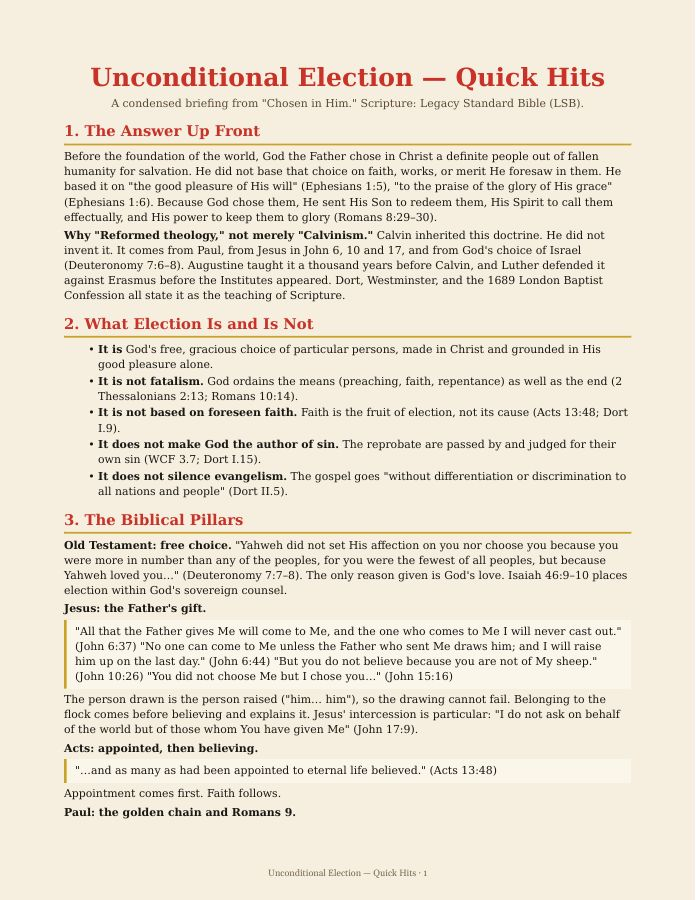
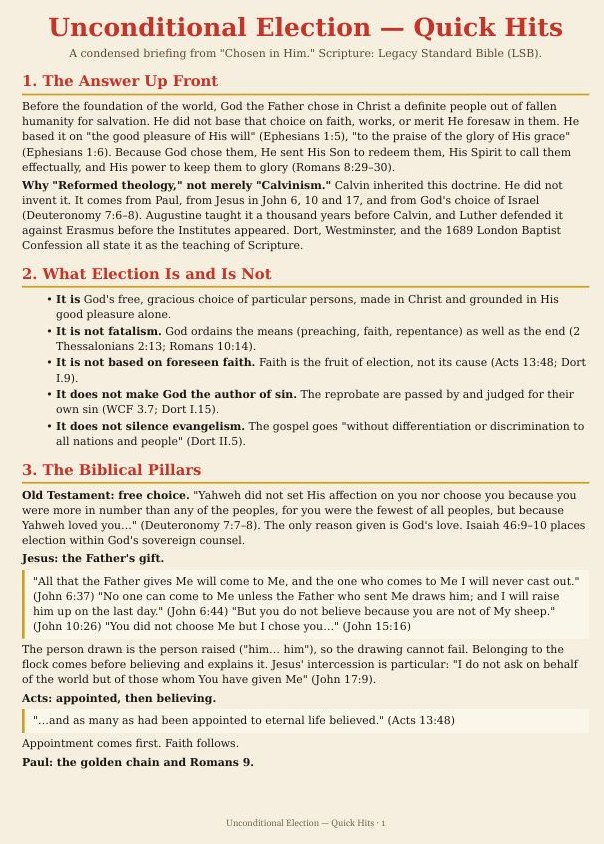
Expand five solas with KJV supporting verses and Reformer/Puritan quotes; crop Election PDF thumbnails and stop thumb stretching (no white bars)

Changed region(s): [[0.0298, 0.0, 0.9536, 0.9242], [0.3874, 0.955, 0.6258, 0.9858]]

diff --git a/data.js b/data.js
@@ -5,26 +5,36 @@ window.SOLA = {
       intro:"The Bible is the only infallible rule for what Christians believe and how they live.",
       study:"The Reformers did not reject church tradition outright; they held that Scripture alone has final authority over councils, popes and creeds, which stand under it.",
       text:"2 Timothy 3:16–17", conf:"Westminster Confession, ch. 1; Belgic Confession, arts. 2–7",
+      verses:[{"ref": "2 Timothy 3:16", "t": "All scripture is given by inspiration of God, and is profitable for doctrine, for reproof, for correction, for instruction in righteousness", "u": "https://www.biblegateway.com/passage/?search=2+Timothy+3%3A16&version=KJV"}, {"ref": "Psalm 119:105", "t": "Thy word is a lamp unto my feet, and a light unto my path.", "u": "https://www.biblegateway.com/passage/?search=Psalm+119%3A105&version=KJV"}, {"ref": "Isaiah 40:8", "t": "The grass withereth, the flower fadeth: but the word of our God shall stand for ever.", "u": "https://www.biblegateway.com/passage/?search=Isaiah+40%3A8&version=KJV"}, {"ref": "2 Peter 1:21", "t": "holy men of God spake as they were moved by the Holy Ghost.", "u": "https://www.biblegateway.com/passage/?search=2+Peter+1%3A21&version=KJV"}],
+      quote:{"by": "Martin Luther, Diet of Worms (1521)", "t": "Unless I am convinced by the testimony of the Scriptures or by clear reason … my conscience is captive to the Word of God.", "u": "https://en.wikipedia.org/wiki/Diet_of_Worms"},
       src:"https://en.wikipedia.org/wiki/Sola_scriptura" },
     { key:"gratia", latin:"Sola Gratia", en:"Grace alone",
       intro:"Salvation is God's undeserved gift, not something people earn.",
       study:"Reformed theology ties grace to God's initiative: sinners are spiritually dead and must be made alive by God before they turn to him.",
       text:"Ephesians 2:8–9", conf:"Canons of Dort, Heads 3–4; Westminster Confession, ch. 10",
+      verses:[{"ref": "Ephesians 2:8", "t": "For by grace are ye saved through faith; and that not of yourselves: it is the gift of God", "u": "https://www.biblegateway.com/passage/?search=Ephesians+2%3A8&version=KJV"}, {"ref": "Titus 3:5", "t": "Not by works of righteousness which we have done, but according to his mercy he saved us", "u": "https://www.biblegateway.com/passage/?search=Titus+3%3A5&version=KJV"}, {"ref": "Romans 11:6", "t": "And if by grace, then is it no more of works: otherwise grace is no more grace.", "u": "https://www.biblegateway.com/passage/?search=Romans+11%3A6&version=KJV"}, {"ref": "John 6:44", "t": "No man can come to me, except the Father which hath sent me draw him", "u": "https://www.biblegateway.com/passage/?search=John+6%3A44&version=KJV"}],
+      quote:{"by": "Martin Luther, Ninety-five Theses, no. 62 (1517)", "t": "The true treasure of the church is the most holy gospel of the glory and grace of God.", "u": "https://en.wikisource.org/wiki/Disputation_of_Doctor_Martin_Luther_on_the_Power_and_Efficacy_of_Indulgences"},
       src:"https://en.wikipedia.org/wiki/Sola_gratia" },
     { key:"fide", latin:"Sola Fide", en:"Faith alone",
       intro:"We are declared right with God through trusting Christ, not through our own works.",
       study:"Justification is a legal declaration: Christ's righteousness is credited (imputed) to the believer. Good works follow as fruit, not as the ground of acceptance.",
       text:"Romans 3:28; Galatians 2:16", conf:"Heidelberg Catechism, Q&A 59–64; Westminster Confession, ch. 11",
+      verses:[{"ref": "Romans 3:28", "t": "Therefore we conclude that a man is justified by faith without the deeds of the law.", "u": "https://www.biblegateway.com/passage/?search=Romans+3%3A28&version=KJV"}, {"ref": "Galatians 2:16", "t": "a man is not justified by the works of the law, but by the faith of Jesus Christ", "u": "https://www.biblegateway.com/passage/?search=Galatians+2%3A16&version=KJV"}, {"ref": "Romans 5:1", "t": "Therefore being justified by faith, we have peace with God through our Lord Jesus Christ", "u": "https://www.biblegateway.com/passage/?search=Romans+5%3A1&version=KJV"}, {"ref": "Habakkuk 2:4", "t": "the just shall live by his faith.", "u": "https://www.biblegateway.com/passage/?search=Habakkuk+2%3A4&version=KJV"}],
+      quote:{"by": "John Calvin, Institutes III.11.1", "t": "[Justification] is the main hinge on which religion turns.", "u": "https://www.ccel.org/ccel/calvin/institutes.v.xii.html"},
       src:"https://en.wikipedia.org/wiki/Justification_(theology)" },
     { key:"christus", latin:"Solus Christus", en:"Christ alone",
       intro:"Jesus Christ is the only mediator between God and people.",
       study:"Christ's once-for-all sacrifice needs no repetition, and no saint or priest adds to his work as mediator.",
       text:"1 Timothy 2:5; Hebrews 10:10–14", conf:"Westminster Confession, ch. 8; Belgic Confession, art. 26",
+      verses:[{"ref": "1 Timothy 2:5", "t": "For there is one God, and one mediator between God and men, the man Christ Jesus", "u": "https://www.biblegateway.com/passage/?search=1+Timothy+2%3A5&version=KJV"}, {"ref": "John 14:6", "t": "I am the way, the truth, and the life: no man cometh unto the Father, but by me.", "u": "https://www.biblegateway.com/passage/?search=John+14%3A6&version=KJV"}, {"ref": "Acts 4:12", "t": "for there is none other name under heaven given among men, whereby we must be saved.", "u": "https://www.biblegateway.com/passage/?search=Acts+4%3A12&version=KJV"}, {"ref": "Hebrews 10:14", "t": "For by one offering he hath perfected for ever them that are sanctified.", "u": "https://www.biblegateway.com/passage/?search=Hebrews+10%3A14&version=KJV"}],
+      quote:{"by": "John Calvin, Institutes II.16.19", "t": "We see that our whole salvation and all its parts are comprehended in Christ.", "u": "https://www.ccel.org/ccel/calvin/institutes.iv.xvii.html"},
       src:"https://en.wikipedia.org/wiki/Solus_Christus" },
     { key:"gloria", latin:"Soli Deo Gloria", en:"Glory to God alone",
       intro:"All of life, and salvation itself, exists for God's glory.",
       study:"The Westminster Shorter Catechism opens on this note: our chief end is to glorify God and enjoy him for ever.",
       text:"1 Corinthians 10:31; Romans 11:36", conf:"Westminster Shorter Catechism, Q&A 1",
+      verses:[{"ref": "1 Corinthians 10:31", "t": "whether therefore ye eat, or drink, or whatsoever ye do, do all to the glory of God.", "u": "https://www.biblegateway.com/passage/?search=1+Corinthians+10%3A31&version=KJV"}, {"ref": "Romans 11:36", "t": "For of him, and through him, and to him, are all things: to whom be glory for ever.", "u": "https://www.biblegateway.com/passage/?search=Romans+11%3A36&version=KJV"}, {"ref": "Isaiah 42:8", "t": "I am the LORD: that is my name: and my glory will I not give to another", "u": "https://www.biblegateway.com/passage/?search=Isaiah+42%3A8&version=KJV"}, {"ref": "Psalm 115:1", "t": "Not unto us, O LORD, not unto us, but unto thy name give glory", "u": "https://www.biblegateway.com/passage/?search=Psalm+115%3A1&version=KJV"}],
+      quote:{"by": "Westminster Assembly (Puritan divines), Shorter Catechism Q&A 1 (1647)", "t": "Man's chief end is to glorify God, and to enjoy him for ever.", "u": "https://en.wikipedia.org/wiki/Westminster_Shorter_Catechism"},
       src:"https://en.wikipedia.org/wiki/Soli_Deo_gloria" }
   ],
   confessions: [

diff --git a/style.css b/style.css
@@ -73,6 +73,12 @@ body[data-depth="1"] .d2,body[data-depth="1"] .d3,body[data-depth="2"] .d3{displ
 .sola-panel{background:var(--paper);border-radius:var(--r);padding:clamp(24px,4vw,48px);border-left:6px solid var(--oxblood);box-shadow:var(--sh);min-height:220px}
 .big-latin{font:italic 400 clamp(2.2rem,5vw,3.6rem)/1 var(--f-display);color:var(--oxblood);margin:0 0 .3em}
 .lead{font-size:1.3rem}
+.sv-h{font:500 .72rem var(--f-mono);letter-spacing:.1em;text-transform:uppercase;color:var(--verdigris);margin:1.4em 0 .6em}.sv-h small{color:var(--muted)}
+.sola-verses{list-style:none;margin:0;padding:0;display:grid;grid-template-columns:repeat(auto-fit,minmax(220px,1fr));gap:10px}
+.sola-verses li{background:var(--vellum);border:1px solid var(--line);border-radius:6px;padding:12px 14px}
+.sola-verses blockquote{margin:0 0 .4em;font-style:italic;line-height:1.45}.sola-verses a{font:500 .8rem var(--f-mono);color:var(--oxblood)}
+.sola-quote{margin:1.4em 0 0;padding:14px 18px;border-left:3px solid var(--brass);background:var(--vellum);border-radius:0 6px 6px 0}
+.sola-quote blockquote{margin:0;font:italic 1.15rem/1.4 var(--f-display)}.sola-quote figcaption{margin-top:.5em;font-size:.85rem;color:var(--muted)}
 .meta{display:grid;grid-template-columns:max-content 1fr;gap:6px 18px;font-size:.95rem}.meta dt{font:500 .72rem var(--f-mono);letter-spacing:.1em;text-transform:uppercase;color:var(--verdigris);padding-top:.3em}.meta dd{margin:0}
 
 /* confessions */
@@ -208,7 +214,7 @@ body[data-depth="1"] .d2,body[data-depth="1"] .d3,body[data-depth="2"] .d3{displ
 .doc-card:hover{transform:translateY(-4px);box-shadow:var(--sh);border-color:var(--brass)}
 .doc-thumb{flex:0 0 110px;padding:0;border:2px solid var(--line);border-radius:6px;background:#fff;cursor:zoom-in;overflow:hidden;transition:border-color .2s,transform .2s}
 .doc-thumb:hover,.doc-thumb:focus-visible{border-color:var(--brass);transform:scale(1.03)}
-.doc-thumb img{display:block;width:100%;height:auto}
+.doc-thumb{align-self:flex-start;line-height:0}.doc-thumb img{display:block;width:100%;height:auto}
 .doc-body h4{font-family:var(--f-display);margin:0 0 .3rem;font-size:1.05rem;color:var(--ink)}
 .doc-actions{display:flex;flex-wrap:wrap;gap:.5rem;margin-top:.6rem}
 .btn-doc{font:600 .9rem var(--f-body);padding:.5rem .9rem;border-radius:999px;border:1.5px solid var(--oxblood);color:var(--oxblood);background:transparent;cursor:pointer;text-decoration:none;transition:background .15s,color .15s,transform .1s,box-shadow .15s}

diff --git a/index.html b/index.html
@@ -94,12 +94,12 @@
       <p class="small">Two printable summaries on unconditional election.</p>
       <div class="doc-grid">
         <article class="doc-card">
-          <button type="button" class="doc-thumb" data-doc="exec" aria-label="Preview Unconditional Election — Executive Summary"><img src="assets/docs/election-executive-summary-preview.jpg" alt="First page of the Executive Summary" loading="lazy" width="300" height="388"></button>
+          <button type="button" class="doc-thumb" data-doc="exec" aria-label="Preview Unconditional Election — Executive Summary"><img src="assets/docs/election-executive-summary-preview.jpg" alt="First page of the Executive Summary" loading="lazy" width="580" height="587"></button>
           <div class="doc-body"><h4>Unconditional Election — Executive Summary</h4><p class="small">20 pages · full printable summary (PDF)</p>
           <div class="doc-actions"><a class="btn-doc primary" href="assets/docs/election-executive-summary.pdf" download>⬇ Download PDF</a><button type="button" class="btn-doc" data-doc="exec">Preview</button></div></div>
         </article>
         <article class="doc-card">
-          <button type="button" class="doc-thumb" data-doc="quick" aria-label="Preview Unconditional Election — Quick Hits"><img src="assets/docs/election-quick-hits-preview.jpg" alt="First page of the Quick Hits" loading="lazy" width="300" height="388"></button>
+          <button type="button" class="doc-thumb" data-doc="quick" aria-label="Preview Unconditional Election — Quick Hits"><img src="assets/docs/election-quick-hits-preview.jpg" alt="First page of the Quick Hits" loading="lazy" width="604" height="844"></button>
           <div class="doc-body"><h4>Unconditional Election — Quick Hits</h4><p class="small">3 pages · short overview (PDF)</p>
           <div class="doc-actions"><a class="btn-doc primary" href="assets/docs/election-quick-hits.pdf" download>⬇ Download PDF</a><button type="button" class="btn-doc" data-doc="quick">Preview</button></div></div>
         </article>

diff --git a/app.js b/app.js
@@ -17,7 +17,7 @@ var tabs=$("#sola-tabs"),panel=$("#sola-panel");
 S.solas.forEach(function(s,i){var b=el("button",{role:"tab",id:"tab-"+s.key,"aria-selected":"false",tabindex:"-1"},'<span>'+s.latin+'</span><small>'+s.en+'</small>');b.addEventListener("click",function(){showSola(i)});tabs.appendChild(b);});
 function showSola(i){var s=S.solas[i];$$("button",tabs).forEach(function(b,j){b.setAttribute("aria-selected",j===i);b.tabIndex=j===i?0:-1});
   panel.setAttribute("aria-labelledby","tab-"+s.key);
-  panel.innerHTML='<p class="big-latin">'+s.latin+'</p><p class="lead">'+s.intro+'</p><p class="d2">'+s.study+'</p><dl class="d2 meta"><dt>Key text</dt><dd>'+s.text+'</dd><dt>Confessions</dt><dd>'+s.conf+'</dd></dl><p class="d3">'+src(s.src,"Read more")+'</p>';
+  panel.innerHTML='<p class="big-latin">'+s.latin+'</p><p class="lead">'+s.intro+'</p><p class="d2">'+s.study+'</p><dl class="d2 meta"><dt>Key text</dt><dd>'+s.text+'</dd><dt>Confessions</dt><dd>'+s.conf+'</dd></dl>'+(s.verses?'<h4 class="sv-h">Supporting verses <small>(KJV)</small></h4><ul class="sola-verses">'+s.verses.map(function(v){return '<li><blockquote>“'+v.t+'”</blockquote><a href="'+v.u+'" target="_blank" rel="noopener">'+v.ref+'</a></li>'}).join('')+'</ul>':'')+(s.quote?'<figure class="sola-quote"><blockquote>“'+s.quote.t+'”</blockquote><figcaption>— '+s.quote.by+' · <a href="'+s.quote.u+'" target="_blank" rel="noopener">source</a></figcaption></figure>':'')+'<p class="d3">'+src(s.src,"Read more")+'</p>';
   panel.classList.remove("pop");void panel.offsetWidth;panel.classList.add("pop");}
 roveKeys(tabs,"button",function(b){b.click()});showSola(0);
 
